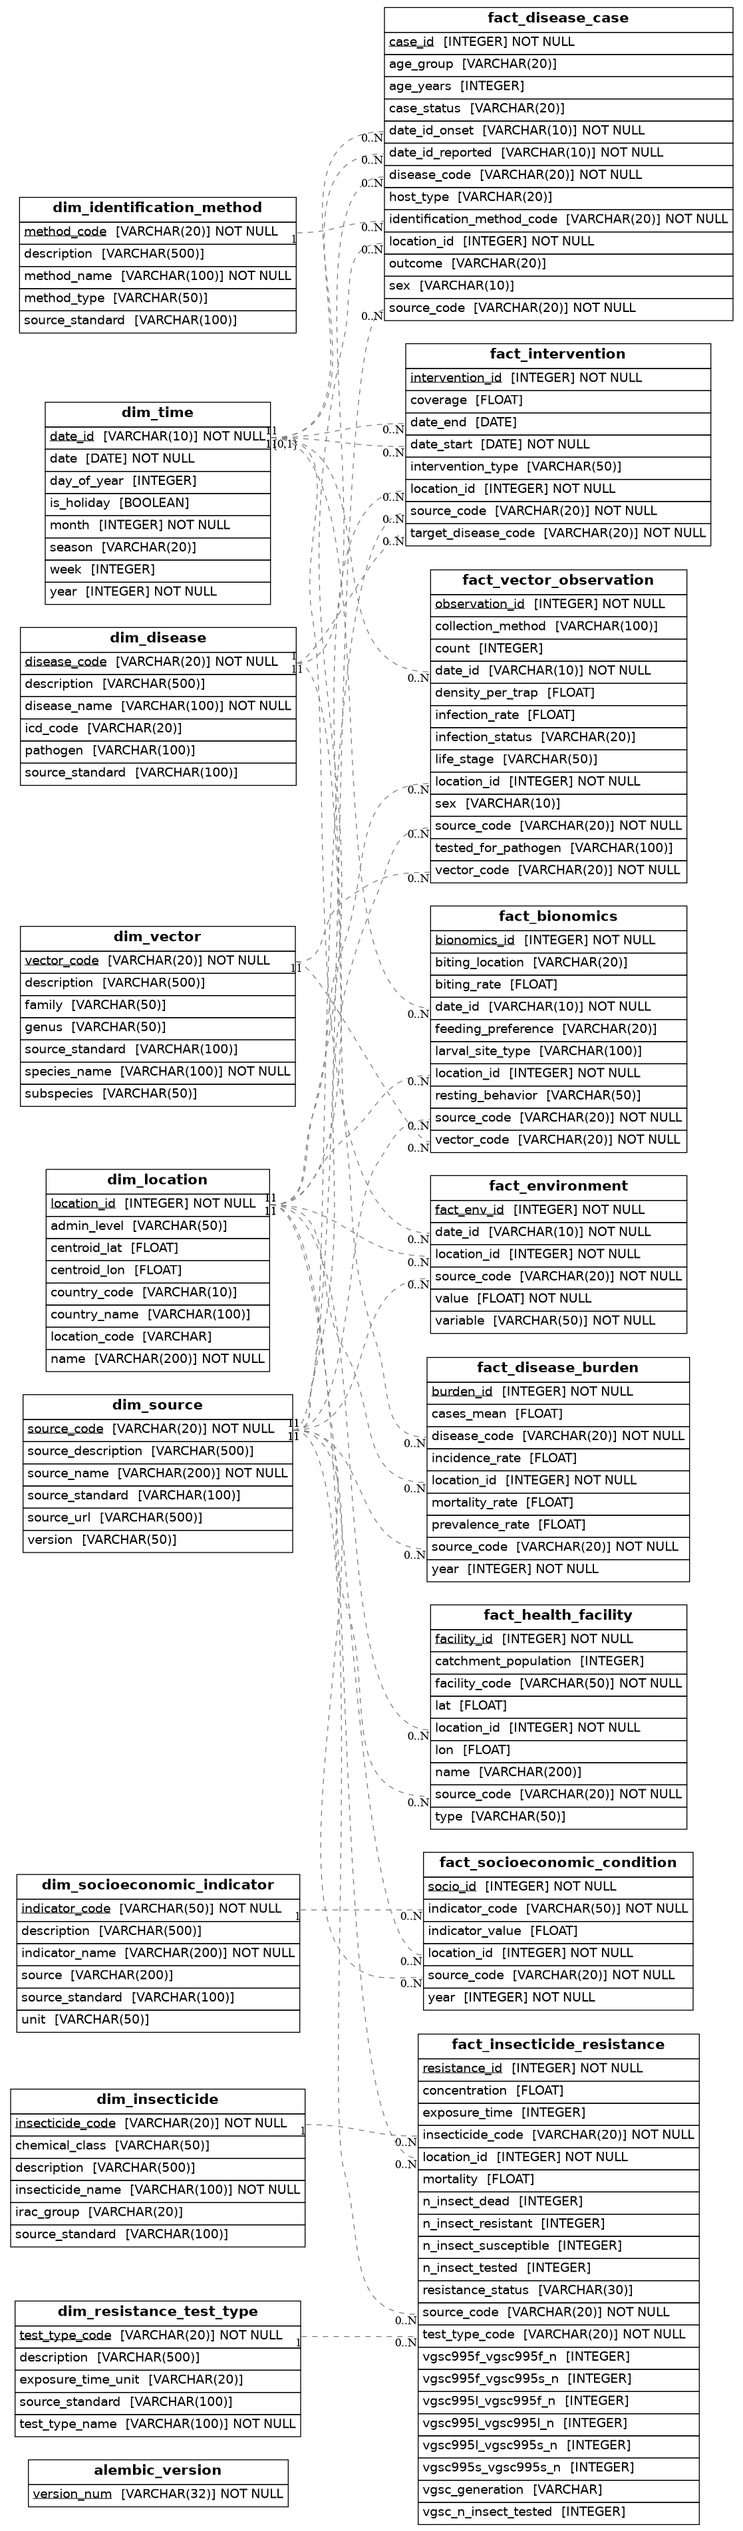
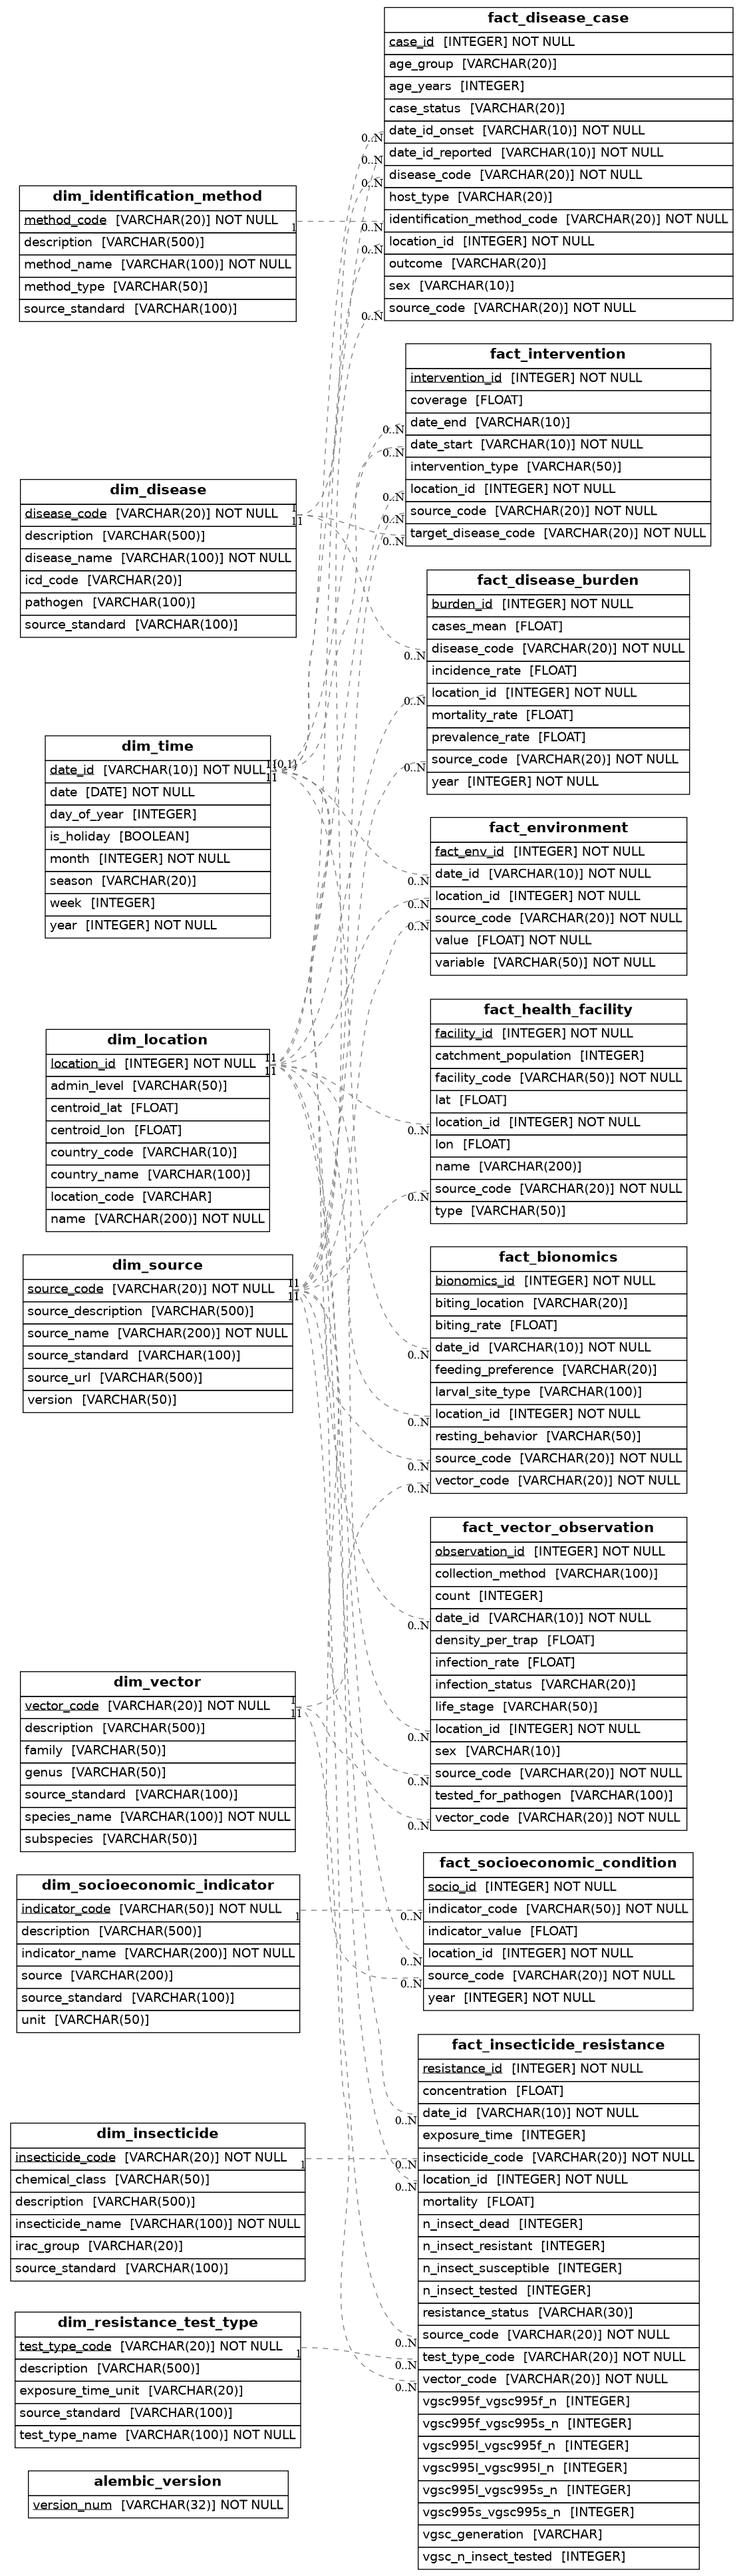
update

diff --git a/readme.md b/readme.md
@@ -3,17 +3,17 @@
 
 ## How to run
 
-# Full pipeline
+### Full pipeline
 ```python main.py```
 
-# Skip ingestion, only regenerate summary
+### Skip ingestion, only regenerate summary
 ```python main.py --skip-ingest```
 
-# Run only one source
+### Run only one source
 ```python main.py --source "climate_timeseries"```
 
-# Skip analysis
+### Skip analysis
 ```python main.py --skip-analysis```
 
-# Update documenation
+### Update documenation
 ```sphinx-build -b html docs _build/html```
